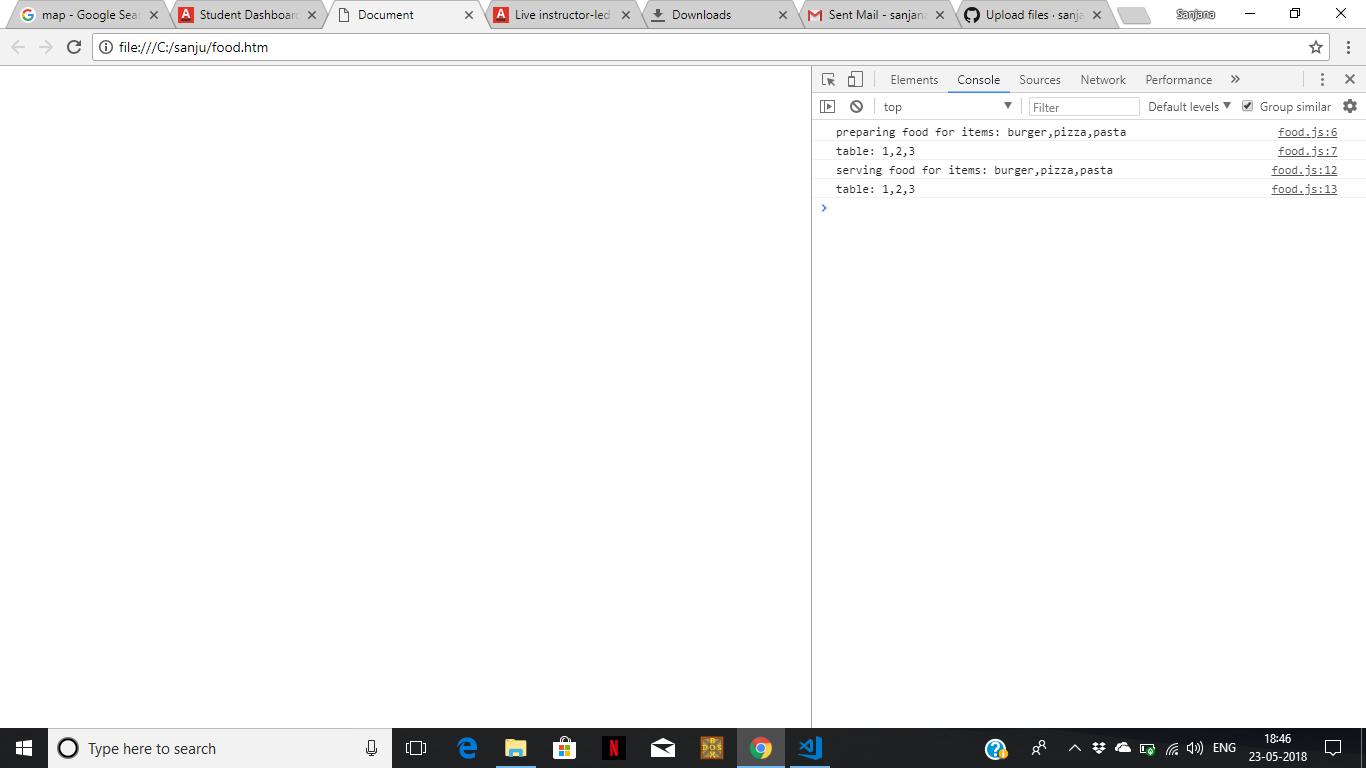
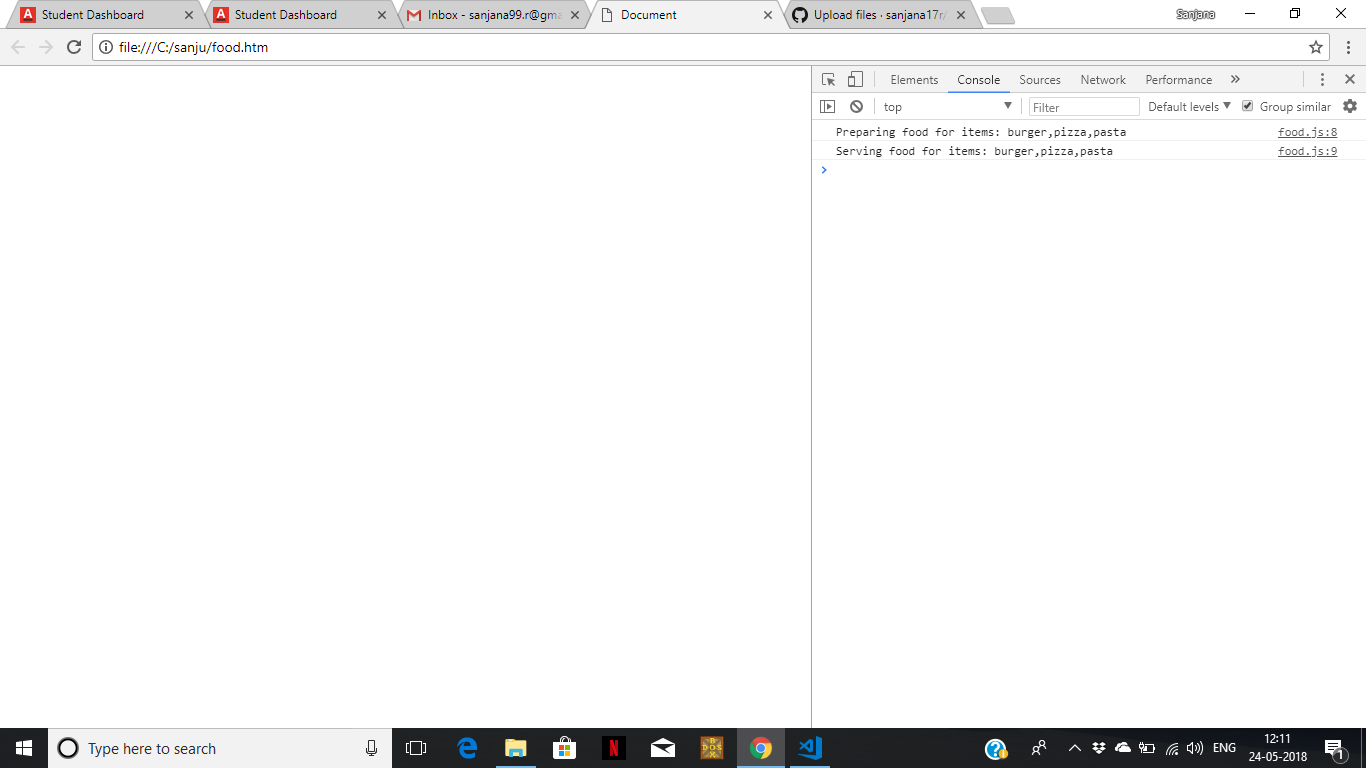
Add files via upload

diff --git a/food.js b/food.js
@@ -1,16 +1,16 @@
-var items=["burger","pizza","pasta"];//these are the array of items ordered and served
-var table=[1,2,3];//array of table numbers to which they are to be served.
 
+var items=["burger","pizza","pasta"];//these are the array of items ordered and served
+var table=100;// table number to which they are to be served.
+
+//here let 'a' represent items and 'n' represent table number.
 function preparefood(a,n,callback)//function for preparing food
 {
-    console.log("preparing food for items: " + items)//prints the items
-    console.log("table: " + table)//prints the table numbers
-    callback(a,n)//calls servefood function within this fuction.
+    console.log("Preparing food for items: " + items)//prints the items
+    console.log("Serving food for items: " + callback(a,n) )
 }
 function servefood(a,n)//function for serving food
 {
-console.log("serving food for items: " + items)//prints the items
-console.log("table: " + table)//prints the table numbers
+return items;
 }
 
 
